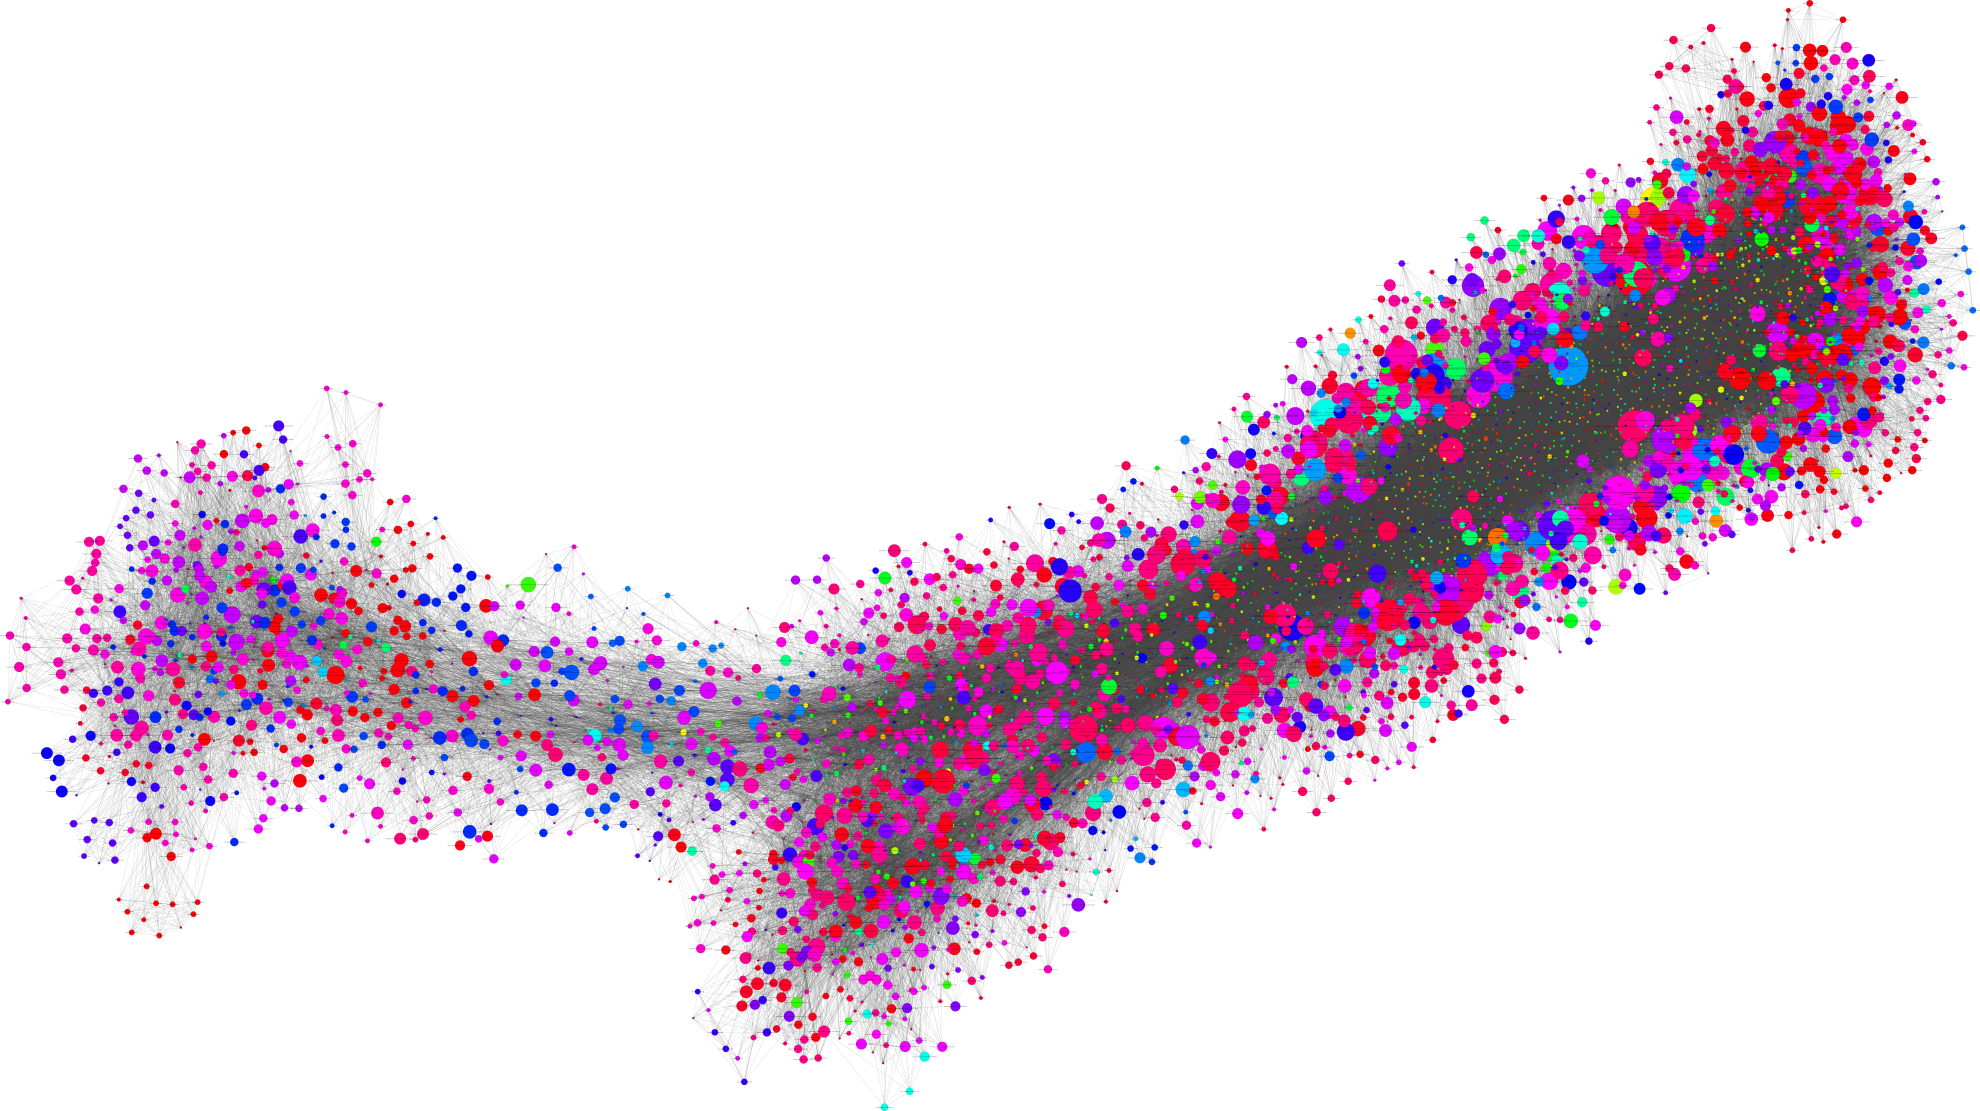
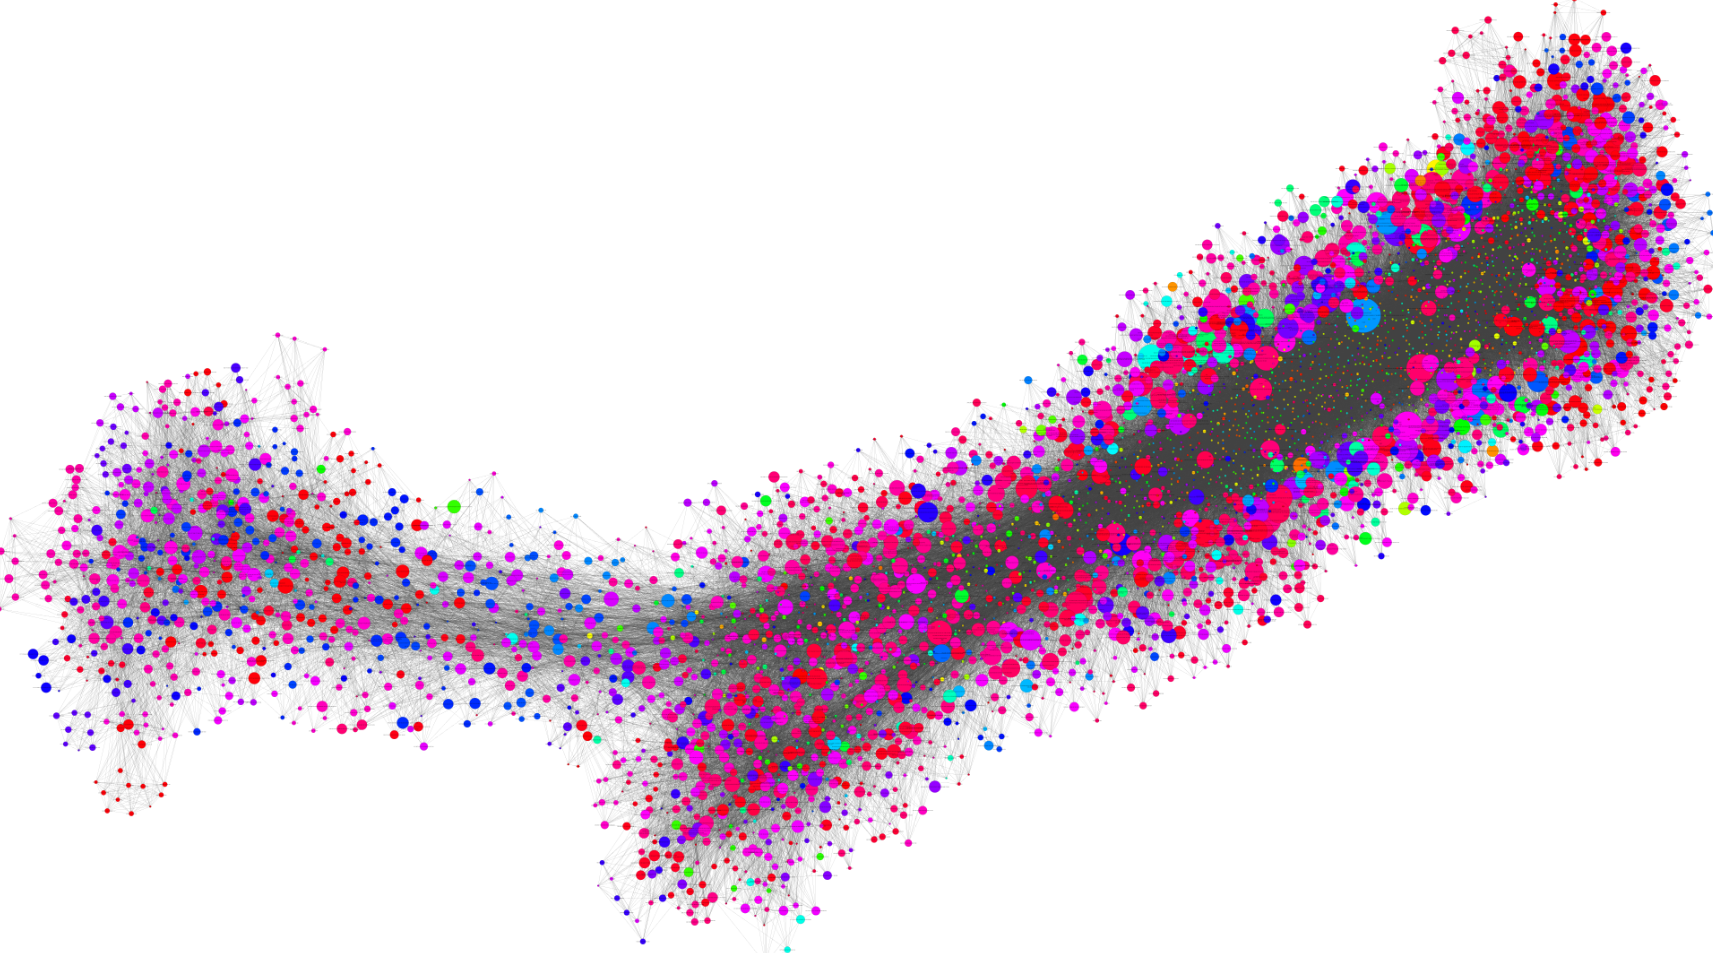
Fix images

Changed region(s): [[0.0, 0.0, 1.0, 1.0], [0.1547, 0.3347, 0.1856, 0.3652]]

diff --git a/Documentation/Final/Documentation.tex b/Documentation/Final/Documentation.tex
@@ -359,7 +359,7 @@ Poniżej przedstawiono wyniki algorytmu w wersji dla społeczności nachodzącyc
 
 \begin{figure}[H]
 \centering
-\includegraphics[width=\6in]{images/ms-ol-nba.png}
+\includegraphics[width=\textwidth]{images/ms-ol-nba.png}
 \caption{Wizualizacja wersji dla społeczności nachodzących algorytmu LPA}
 \end{figure}
 
